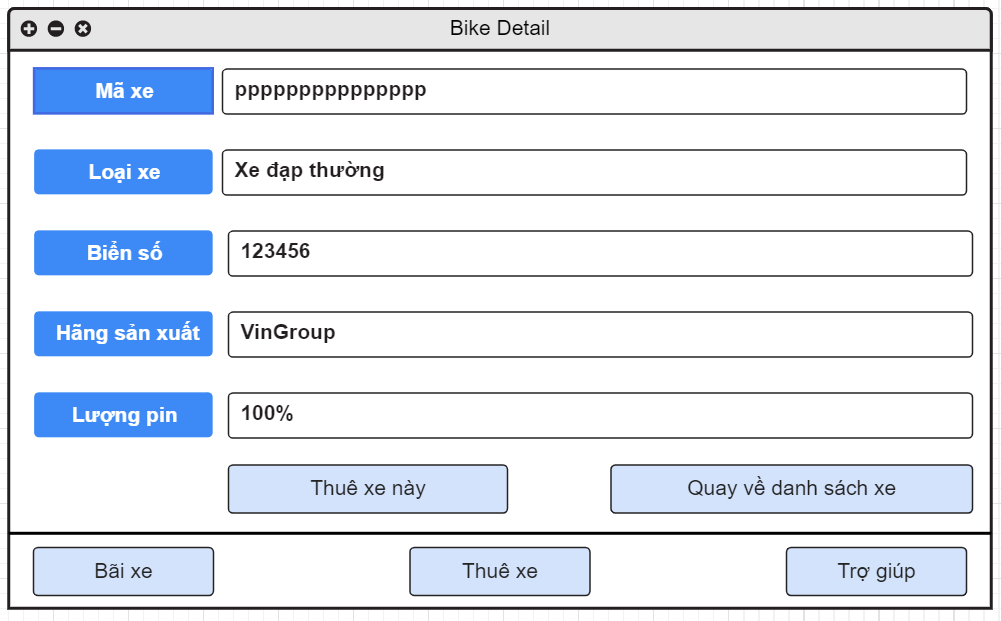
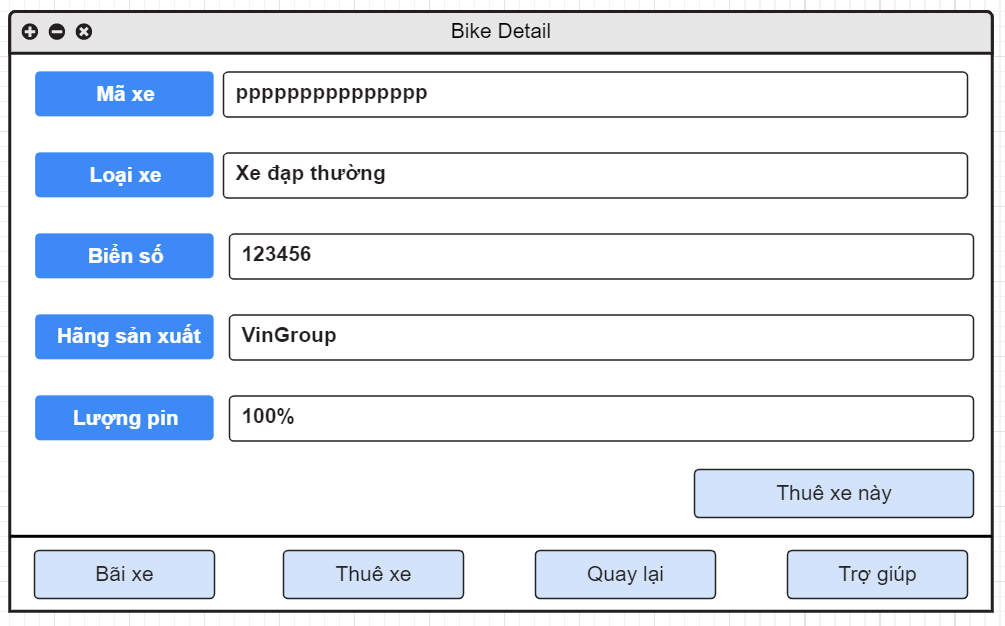
fix: GUI, add: readme

Changed region(s): [[0.0, 0.0, 1.0, 1.0], [0.0619, 0.6425, 0.1858, 0.7037]]

diff --git a/ArchitecturalDesign/README.md b/ArchitecturalDesign/README.md
@@ -1,0 +1,16 @@
+---
+# LAB 0 - ArchitectureDesign
+## Tasks
+- Task1: Vẽ biểu đồ trình tự và biểu đồ lớp phân tích cho use case "hiển thị xe trong bãi và thông tin của xe"
+- Task2: Vẽ biểu đồ trình tự và biểu đồ lớp phân tích cho use case "thuê xe"
+- Task3: Vẽ biểu đồ trình tự và biểu đồ lớp phân tích cho use case "trả xe"
+
+## Contributions
+- Task1: Ngô Minh Quang
+- Task2: Phạm Hồng Phúc
+- Task3: Sư Hữu Vũ Quang
+
+## Revisions
+- Ngô Minh Quang review Task3: 
+- Phạm Hồng Phúc review Task1:
+- Sư Hữu Vũ Quang review Task2: 
